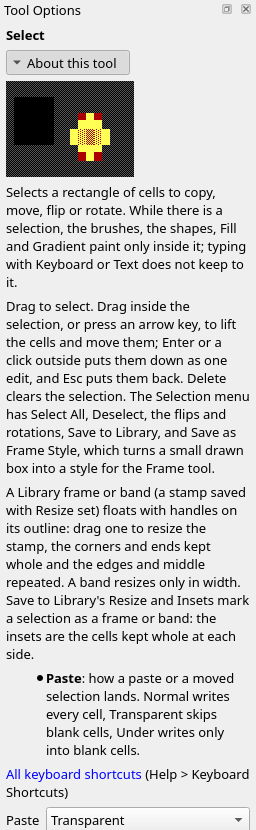
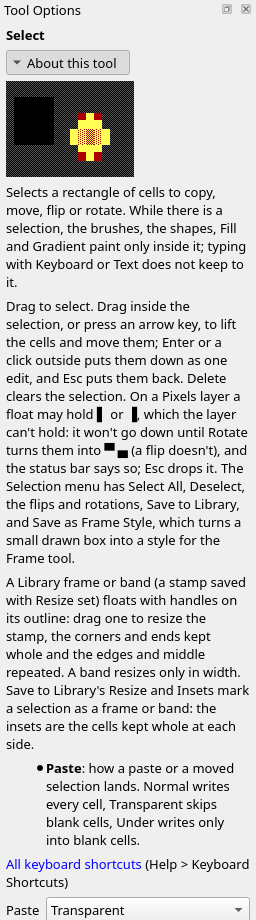
Tutorials 01-03 and 08: re-checked against 6cb21c1 (#58)
Re-checks tutorials 01, 02, 03 and 08 against Blockwright `6cb21c1`. Tutorial 01 gets two window pictures, the Palette and the Preview (1x) dock. It now says the pen is kept between runs and quotes the € status message as the app shows it. Tutorial 08's Paste setting picture is recropped for the Select tool's new help paragraph. Its Save to Library paragraph now says Save to Library takes what the visible layers show (#434), so the reader hides Background before saving the pine and shows it again after. Tutorials 02 and 03 have no drift. Each page's `Checked:` line and its `PLAN.md` §2 row now name `6cb21c1`.

Changed region(s): [[0.0, 0.0, 0.9688, 1.0], [0.9375, 0.0, 0.9688, 0.0301], [0.875, 0.0, 0.9062, 0.0301]]

diff --git a/samples/01-what-ansi-art-is/make.py b/samples/01-what-ansi-art-is/make.py
@@ -4,9 +4,18 @@
 The step files are the canvas each step of "Do it" leaves (typing in keyboard
 mode puts the glyph in the pen's colours and moves the cursor one cell right).
 final.ans is funkpower's 0xCAFE, copied from the ascii library, not made here.
+
+The pictures of the editor's docks come from the same words typed as a steps
+file (do-it.steps.json), one keyboard step a word, played in the window by
+`blockwright --screenshot` (the editor is $BLOCKWRIGHT, else blockwright).
 """
 
+import json
+import os
+import shutil
+import subprocess
 import sys
+import tempfile
 from pathlib import Path
 
 HERE = Path(__file__).resolve().parent
@@ -87,3 +96,42 @@ c.text(2, 3, "♥", LIGHT_RED, BLACK)
 c.text(4, 3, "hot coffee", GREY, BLACK)
 c.text(15, 3, "♥", LIGHT_RED, BLACK)
 save(c, "try.ans", "Open 24/7")
+
+
+
+# The docks: the words of "Do it" typed as keyboard steps, and the window
+# pictured at the last two. The pen of each step holds for the steps after
+# it; the last space of step 4 is a step of its own, so the Palette is
+# pictured with the pen white on blue and the Preview with the words whole.
+GUI = os.environ.get("BLOCKWRIGHT") or "blockwright"
+
+
+def key(name, at, text, **pen):
+    return dict({"name": name, "action": "keyboard", "at": at, "text": text}, **pen)
+
+
+steps = [
+    key("hello", [1, 1], "HELLO", fg=GREY, bg=BLACK),
+    key("ansi", [1, 3], "ANSI", fg=YELLOW),
+    key("art", [1, 5], " ART", fg=WHITE, bg=BLUE),
+    key("space", [5, 5], " "),
+]
+SHOTS = {
+    # Step 4: the pen white on blue.
+    "art": ("pen.png", {"of": "palette"}),
+    # Step 6: the canvas at 1x.
+    "space": ("preview.png", {"of": "preview", "crop": {"pixels": [0, 0, 307, 170]}}),
+}
+number = {}
+for i, step in enumerate(steps):
+    number[step["name"]] = i + 1
+    if step["name"] in SHOTS:
+        step["screenshot"] = SHOTS[step["name"]][1]
+# The taller window gives the Preview dock room for the whole canvas.
+body = {"version": 1, "start": {"blank": [32, 8]}, "steps": steps, "window": [1280, 1300]}
+path = HERE / "do-it.steps.json"
+path.write_text(json.dumps(body, indent=1, ensure_ascii=False) + "\n", encoding="utf-8")
+with tempfile.TemporaryDirectory() as tmp:
+    subprocess.run([GUI, "--screenshot", str(path), "-o", tmp], check=True, stdout=subprocess.DEVNULL)
+    for name, (dest, _) in SHOTS.items():
+        shutil.copyfile(Path(tmp) / f"{number[name]:02d}-{name}.png", HERE / dest)

diff --git a/samples/08-composing-a-scene/make.py b/samples/08-composing-a-scene/make.py
@@ -172,7 +172,7 @@ PASTE = {"name": "paste-pine", "action": "paste", "at": [34, 8]}
 STAMP_COPY = {"name": "stamp-copy", "action": "deselect"}
 
 PINE = [PARTS_ACTIVE, SELECT_PINE, MOVE_PINE, FLIP, STAMP_PINE]
-steps = PINE + SNAG + RIDGE + [UNDER, STAMP_RIDGE] + [shot(COPY[0], "toolOptions", pixels=[0, 0, 256, 830]), COPY[1], PASTE, STAMP_COPY]
+steps = PINE + SNAG + RIDGE + [UNDER, STAMP_RIDGE] + [shot(COPY[0], "toolOptions", pixels=[0, 0, 256, 920]), COPY[1], PASTE, STAMP_COPY]
 replay("final", "start.bwp", steps,
        {"move-pine": "step-01.bwp", "flip-pine": "step-02.bwp", "rotate-snag": "step-03.bwp",
         "move-log": "step-04.bwp", "cut-ridge": "step-05.bwp", "paste-ridge": "step-06.bwp",

diff --git a/PLAN.md b/PLAN.md
@@ -38,14 +38,14 @@ Status is against Blockwright's `main` on 2026-11-05 (`06fbac5`). Issue and PR n
 
 | # | Tutorial | Covers | Status |
 |---|---|---|---|
-| 01 | What ANSI art is | Cells, CP437 glyphs, 16 colours, foreground and background, 80 columns, reading a piece at 1× | Written, checked against `c44974c` |
-| 02 | Your first piece | Keyboard mode, F-key glyph sets (Ctrl+, Ctrl+. Ctrl+/), the pen (Ctrl+arrows, Ctrl+D), undo, Save, the SAUCE dialog | Written, checked against `ebd3feb`; the default set (#307) and sets 17–21 corrected from `9cad05f`; the pen kept between runs (#307) added from `ebd3feb`, so step 2 starts with Ctrl+D; window pictures in from `ebd3feb`: the Glyphs dock, the Palette with the pen black on white and the Preview (1x) dock with the finished card, from `--screenshot` of the card typed as keyboard steps (`do-it.steps.json`, which `replay` takes to `final.ans` cell for cell), the step pictures still drawn by `scripts/ansi.py`; the start screen, the SAUCE dialog and Save As are described, not pictured (`--screenshot` opens no dialog), and so are sets 1 and 7 in the status bar and the Glyphs dock (no step key changes the F-key set) and the cursor's position (no step moves the cell cursor) |
-| 03 | Pixels with half blocks | Why ▀▄█ make two pixels a cell; half-block brush, 4- vs 8-connected pencil, line, rectangle, ellipse, Filled Shapes, fill, eyedropper; iCE colours and bright backgrounds | Written, checked against `ebd3feb`; the cursor's position corrected at `ebd3feb`: it is at the status bar's right end, after the F-key set, the target and the encoding and before the size, the cell width and the zoom, not at its start; window pictures in from `ebd3feb`: that end of the status bar, the Rectangle's Tool Options with Filled ticked, the Palette after the Eyedropper and the Half-Block Brush's Tool Options with Pencil 4-connected ticked, from `--screenshot` of the scene as a steps file (`scene.steps.json`, which `replay` takes to `final.ans` cell for cell), the step pictures still drawn by `scripts/ansi.py`; the start screen is described, not pictured (`--screenshot` opens no dialog), and so is View > iCE Colours (no step toggles it; `no-ice.ans` shows the canvas with it off) |
+| 01 | What ANSI art is | Cells, CP437 glyphs, 16 colours, foreground and background, 80 columns, reading a piece at 1× | Written, checked against `6cb21c1`; the pen kept between runs (#307) added, so step 2 says to press Ctrl+D if it isn't grey on black, and the € message corrected to the status bar's *€ has no CP437 code; not typed (target: ANSI, CP437)*; window pictures in from `6cb21c1`: the Palette with the pen white on blue and the Preview (1x) dock with the finished canvas, from `--screenshot` of the words typed as keyboard steps (`do-it.steps.json`, which `replay` takes to `step-04.ans` cell for cell), the step pictures still drawn by `scripts/ansi.py`; the start screen is described, not pictured (`--screenshot` opens no dialog), and so is the cursor's position in the status bar (no step moves the cell cursor, and step 5 needs it at `1, 1`) |
+| 02 | Your first piece | Keyboard mode, F-key glyph sets (Ctrl+, Ctrl+. Ctrl+/), the pen (Ctrl+arrows, Ctrl+D), undo, Save, the SAUCE dialog | Written, checked against `6cb21c1` (#468's status tips and label buddies change no picture; every sample re-run byte for byte); the default set (#307) and sets 17–21 corrected from `9cad05f`; the pen kept between runs (#307) added from `ebd3feb`, so step 2 starts with Ctrl+D; window pictures in from `ebd3feb`: the Glyphs dock, the Palette with the pen black on white and the Preview (1x) dock with the finished card, from `--screenshot` of the card typed as keyboard steps (`do-it.steps.json`, which `replay` takes to `final.ans` cell for cell), the step pictures still drawn by `scripts/ansi.py`; the start screen, the SAUCE dialog and Save As are described, not pictured (`--screenshot` opens no dialog), and so are sets 1 and 7 in the status bar and the Glyphs dock (no step key changes the F-key set) and the cursor's position (no step moves the cell cursor) |
+| 03 | Pixels with half blocks | Why ▀▄█ make two pixels a cell; half-block brush, 4- vs 8-connected pencil, line, rectangle, ellipse, Filled Shapes, fill, eyedropper; iCE colours and bright backgrounds | Written, checked against `6cb21c1` (#468's status tips and label buddies change no picture; every sample re-run byte for byte); the cursor's position corrected at `ebd3feb`: it is at the status bar's right end, after the F-key set, the target and the encoding and before the size, the cell width and the zoom, not at its start; window pictures in from `ebd3feb`: that end of the status bar, the Rectangle's Tool Options with Filled ticked, the Palette after the Eyedropper and the Half-Block Brush's Tool Options with Pencil 4-connected ticked, from `--screenshot` of the scene as a steps file (`scene.steps.json`, which `replay` takes to `final.ans` cell for cell), the step pictures still drawn by `scripts/ansi.py`; the start screen is described, not pictured (`--screenshot` opens no dialog), and so is View > iCE Colours (no step toggles it; `no-ice.ans` shows the canvas with it off) |
 | 04 | Shading: the ladder | ░▒▓ as rungs between two colours, the ten shipped ramps, the shade brush, the ramp shade brush, strength, pressure, alpha lock | Written, checked against `6cb21c1`: step pictures from `replay` steps files, dock pictures from `--screenshot` (Tool Options set as the step it is taken at), final piece and Try-it file `.bwp` from `replay --project`; pressure is described, not pictured (§4); dock pictures redrawn in the bundled font from `b4b9c49`, every picture, its crop and its alt text checked against it, and every `.ans` and `.bwp` reproduced byte for byte; re-checked in full against `6cb21c1`: no drift, every `.ans`, `.bwp` and PNG reproduced byte for byte by `make.py`, every menu path and shortcut matching `--list-actions`; pressure still described, not pictured, though `replay` takes a `pressure` option from `2edd1df` (#390) |
 | 05 | Shading: forms and falloff | Form shading (dome, cylinder, plane), soft falloff, ramp gradient tool, blend/smudge, despeckle | Written, checked against `6cb21c1`: step pictures from `replay` steps files, dock pictures from `--screenshot` (Tool Options set as the step it is taken at), final piece and Try-it file `.bwp` from `replay --project`; 4×4 Bayer banding is described, not pictured; dock pictures redrawn in the bundled font from `b4b9c49`, every picture, its crop and its alt text checked against it, and every `.ans` and `.bwp` reproduced byte for byte; re-checked in full against `6cb21c1`: no drift, every `.ans`, `.bwp` and PNG reproduced byte for byte by `make.py`, every menu path and shortcut matching `--list-actions` |
 | 06 | Light | Choosing a light direction, the rim light brush (Ctrl+Shift+L) and its eight compass points, form shading's light, highlights and glints; where the rim light can't help (counters, thin bars, canvas edges) | Written, checked against `6cb21c1`: step pictures from `replay` steps files, dock pictures from `--screenshot` (Tool Options set as the step it is taken at), final piece and Try-it file `.bwp` from `replay --project`; dock pictures redrawn in the bundled font from `b4b9c49`, every picture, its crop and its alt text checked against it, and every `.ans` and `.bwp` reproduced byte for byte; re-checked in full against `6cb21c1`: no drift, every `.ans`, `.bwp` and PNG reproduced byte for byte by `make.py`, every menu path and shortcut matching `--list-actions` |
 | 07 | Detail | Outline brush, texture stamps, glyph spray, clone stamp, symmetry: mirror X/Y, both, radial 2–8 | Written, checked against `6cb21c1`: step pictures from `replay` steps files, dock pictures from `--screenshot` (Tool Options set as the step it is taken at), final piece and Try-it file `.bwp` from `replay --project`; the clone stamp is described, not pictured (at `fd10778` `replay` had no clone action; from `210734b` it has one, pictured in the CLI page's [The clone stamp](manual/14-cli.md#the-clone-stamp), which this page now links); dock pictures redrawn in the bundled font from `b4b9c49`, every picture, its crop and its alt text checked against it, and every `.ans` and `.bwp` reproduced byte for byte; re-checked in full against `6cb21c1`: no drift, every `.ans`, `.bwp` and PNG reproduced byte for byte by `make.py`, every menu path and shortcut matching `--list-actions` |
-| 08 | Composing a scene | Selections, move, flip, rotate, paste modes (normal, transparent, under), guides, reference image, Library stamps, Scene Starter | Written, checked against `bb1c676`: step pictures, the mistakes and Try-it file `.bwp` from `replay --project` steps files (select, `moveSelection`, flip, rotate, cut, copy and paste in Under and Transparent mode, on a Cells layer of parts over the Background layer), the marquee from `--screenshot` with a `view` step (played by `--screenshot` only, since `replay` refuses it), the Paste setting and the Library dock from `--screenshot` (the Library with an empty user library, so bundled stamps only; the Library picture retaken from `27ab7fe`, where #430's fix shows every name whole, so the cut-off-labels gap is closed); guides, the reference image, placing a Library stamp and Save to Library are described, not pictured (`replay` has no action for View > Guides, Open Reference Image, placing a stamp or saving one, and `--screenshot` plays the same steps); Normal's difference from Transparent, painted spaces on black, is described, not pictured (on a layer of parts drawn from transparent cells the two land alike; Normal against Under is pictured); the Scene Starter isn't on `main`, and the page says so in one line |
+| 08 | Composing a scene | Selections, move, flip, rotate, paste modes (normal, transparent, under), guides, reference image, Library stamps, Scene Starter | Written, checked against `6cb21c1`: step pictures, the mistakes and Try-it file `.bwp` from `replay --project` steps files (select, `moveSelection`, flip, rotate, cut, copy and paste in Under and Transparent mode, on a Cells layer of parts over the Background layer), the marquee from `--screenshot` with a `view` step (played by `--screenshot` only, since `replay` refuses it), the Paste setting and the Library dock from `--screenshot` (the Library with an empty user library, so bundled stamps only; the Library picture retaken from `27ab7fe`, where #430's fix shows every name whole, so the cut-off-labels gap is closed); guides, the reference image, placing a Library stamp and Save to Library are described, not pictured (`replay` has no action for View > Guides, Open Reference Image, placing a stamp or saving one, and `--screenshot` plays the same steps); Normal's difference from Transparent, painted spaces on black, is described, not pictured (on a layer of parts drawn from transparent cells the two land alike; Normal against Under is pictured); the Scene Starter isn't on `main`, and the page says so in one line; from `6cb21c1`: the Paste setting picture recropped 90 px taller for the Select tool's help paragraph on floats (`f9ec75e`), every other sample byte for byte the same, and Save to Library corrected: it takes what the visible layers show, not the active layer (`03af132`, #434), so the page says to hide **Background** before saving the pine and to show it again after |
 | 09 | Layers and projects | Layer kinds (cells, pixels, text, generator, reference), compositing, the project file, snapshots | Written, checked against `4b72bcc`: step pictures and Try-it file `.bwp` from `replay --project` steps files, dock pictures from `--screenshot`, snapshots from `blockwright-cli snapshot` (the same snapshot as **File > Take Snapshot**, which `replay` has no action for), the flat copy from `convert`; Text, Generator and Reference layers and the layer modes are described, not pictured (Text layers are 10's, generators 12's, the reference image 08's; the app has no control for the mode); dock pictures redrawn in the bundled font from `b4b9c49`, every picture, its crop and its alt text checked against it, and every `.ans` and `.bwp` reproduced byte for byte; the rest of the page not re-checked |
 | 10 | Letters and text | Lettering by hand, letters that misread at 1× (C/G, R/A, 0/D), TDF text layers | Written, checked against `6cb21c1`: step pictures, the misreads and Try-it file `.bwp` from `replay --project` steps files (letters drawn with the half-block brush on a Pixels layer, rows recoloured with the rectangle under alpha lock), dock pictures from `--screenshot`; the Text tool, the face picker, the fonts folder, Bake Layer and Text layers are described, not pictured (at `fd10778` `replay` had no text action, no CLI command made a Text layer, and Blockwright ships no TheDraw font; from `fbac0e1` a `replay` `text` step makes one in a bundled face, pictured in the CLI page's [The text tool](manual/14-cli.md#the-text-tool), which this page now links; from `5b43f7e` (#455) that line says the step takes a TheDraw font from a `.tdf` file the steps file names too, and links the CLI page's [A TheDraw font](manual/14-cli.md#a-thedraw-font)); dock pictures redrawn in the bundled font from `b4b9c49`, every picture, its crop and its alt text checked against it, and every `.ans` and `.bwp` reproduced byte for byte; re-checked in full against `6cb21c1`: no drift, every `.ans`, `.bwp` and PNG reproduced byte for byte by `make.py`, every menu path and shortcut matching `--list-actions`; Bake Layer's line still right after `f0a75cf` (#438) let it bake Generator layers too |
 | 11 | Made for IRC | The 407-byte line budget, trailing black and blank rows, glyphs CP437 can't hold, `export --irc`, the row meter, IRC view, lint panel, publish | Written, checked against `e5db865`: the sign, its fix and the Try-it file `.bwp` from `replay --project` steps files on IRC-target projects (`pack --target irc`), meter, IRC View and Lint pictures from `--screenshot`, full-width IRC views from `render --irc`, byte counts and lint output from `export --irc` and `lint`; Fit and Pad are shown through `export --irc --fit`/`--pad` and `render --irc --fit`, and Fit in the window too from `9cad05f` (`meter-fit.png`, a `view` step, #398, played by `--screenshot` only, since `replay` refuses it), and Publish to Library and the export dialogs are described, not pictured; dock pictures redrawn in the bundled font from `b4b9c49`, every picture, its crop and its alt text checked against it, and every `.ans` and `.bwp` reproduced byte for byte; the rest of the page not re-checked |

diff --git a/tutorials/01-what-ansi-art-is.md b/tutorials/01-what-ansi-art-is.md
@@ -1,5 +1,5 @@
 Title: What ANSI art is
-Checked: Blockwright 0.1.0 (c44974c)
+Checked: Blockwright 0.1.0 (6cb21c1)
 
 # What ANSI art is
 
@@ -49,7 +49,7 @@ You'll make a small canvas and type on it, then look at it at its real size.
 
 1. **Start Blockwright.** It opens on the start screen. Under **New**, set **Width** to 32 and **Height** to 8 (the buttons under them set the usual sizes, 80 × 25, 80 × 40 and 80 × 50), leave **iCE colours** ticked, and press **New** (or <kbd>Enter</kbd>). The canvas is 32 blank cells by 8: spaces, grey on black.
 
-2. **Type a word.** Blockwright starts in keyboard mode (**Tools > Keyboard**, <kbd>Ctrl</kbd>+<kbd>K</kbd>), which types like a text editor. Click the cell one in from the top-left corner to put the cursor there, and type `HELLO`. Each key puts a glyph in a cell, in the foreground and background colours you're drawing with (grey on black to start), and moves the cursor one cell right.
+2. **Type a word.** Blockwright starts in keyboard mode (**Tools > Keyboard**, <kbd>Ctrl</kbd>+<kbd>K</kbd>), which types like a text editor. Click the cell one in from the top-left corner to put the cursor there, and type `HELLO`. Each key puts a glyph in a cell, in the foreground and background colours you're drawing with, and moves the cursor one cell right. The pen is grey on black the first time Blockwright runs; after that it starts with the colours you last drew with, so if it isn't grey on black, press <kbd>Ctrl</kbd>+<kbd>D</kbd> (**Colours > Default Colours**) before you type.
 
     ![HELLO in grey near the top-left of a black canvas](../samples/01-what-ansi-art-is/step-02.ans "2x")
 
@@ -61,11 +61,17 @@ You'll make a small canvas and type on it, then look at it at its real size.
 
     ![ART in white on a blue bar, a space either side](../samples/01-what-ansi-art-is/step-04.ans "2x")
 
+    The Palette now shows the pen: the big square at its left is the foreground over the background, and the swatches mark them F and B.
+
+    ![The Palette dock with the pen white on blue: the white foreground square over the blue background square, beside the sixteen swatches in two rows of eight, F marking white and B marking blue](../samples/01-what-ansi-art-is/pen.png)
+
     <kbd>Ctrl</kbd>+<kbd>D</kbd> (**Colours > Default Colours**) puts the pen back to grey on black.
 
 5. **Find a cell.** Click any cell. The status bar at the bottom shows where the cursor is: its column and row, counted from 0 at the top-left, then the canvas size, the cell width in pixels and the zoom. The H you typed first is at `1, 1`.
 
 6. **Look at it at 1×.** The canvas is zoomed so you can draw (**View > Zoom In** and **Zoom Out**, <kbd>Ctrl</kbd>+<kbd>=</kbd> and <kbd>Ctrl</kbd>+<kbd>-</kbd>). The **Preview (1x)** dock on the right shows the piece at its real size, the way most people will see it.
+
+    ![The Preview (1x) dock with the canvas at its real size: HELLO in grey, ANSI in yellow and ART in white on a blue bar, on black](../samples/01-what-ansi-art-is/preview.png)
 
 ## Check it
 
@@ -75,7 +81,7 @@ You'll make a small canvas and type on it, then look at it at its real size.
 
 The same goes for letters in a lettered piece: read every word at 1× and check that no letter could be taken for another (C and G, 0 and D, 5 and S).
 
-**A glyph that isn't in CP437 isn't typed.** Type `€` and the status bar says *€ has no CP437 glyph; not typed*, and the canvas doesn't change.
+**A glyph that isn't in CP437 isn't typed.** Type `€` and the status bar says *€ has no CP437 code; not typed (target: ANSI, CP437)*, and the canvas doesn't change.
 
 ## Try it
 

diff --git a/tutorials/08-composing-a-scene.md b/tutorials/08-composing-a-scene.md
@@ -1,5 +1,5 @@
 Title: Composing a scene
-Checked: Blockwright 0.1.0 (bb1c676)
+Checked: Blockwright 0.1.0 (6cb21c1)
 
 # Composing a scene
 
@@ -119,7 +119,7 @@ The **Library** dock (**Window > Library**) holds stamps: parts kept as files, t
 
 Double-click a stamp, or press <kbd>Enter</kbd> on it, and it floats at the cell cursor; drag one onto the canvas and it floats where you drop it. Either way the **Select** tool is now in hand and the stamp is a float like a paste. It lands in **Transparent** mode whatever **Paste** says, unless you change **Paste** while it floats. Move, flip or turn it, and press <kbd>Enter</kbd>.
 
-To keep a part of your own, select it and choose **Selection > Save to Library...**: give it a name, a category and tags. The name has to be one CP437 can write, and a name already in the library asks before it replaces it. The pine in step 2 would make one.
+To keep a part of your own, select it and choose **Selection > Save to Library...**: give it a name, a category and tags. The name has to be one CP437 can write, and a name already in the library asks before it replaces it. The pine in step 2 would make one, but hide **Background** first (clear its box in the **Layers** dock): unlike Copy, which takes the active layer, Save to Library takes what the visible layers show, and with the sky showing the stamp would carry the stars at `58, 5` and `57, 11`. Tick its box again once the stamp is saved: a hidden layer stays out of the window and out of every export.
 
 The **Scene Starter**, a scene laid out from the Library in one go, isn't in the app yet.
 

diff --git a/tutorials/03-pixels-with-half-blocks.md b/tutorials/03-pixels-with-half-blocks.md
@@ -1,5 +1,5 @@
 Title: Pixels with half blocks
-Checked: Blockwright 0.1.0 (ebd3feb)
+Checked: Blockwright 0.1.0 (6cb21c1)
 
 # Pixels with half blocks
 

diff --git a/tutorials/02-your-first-piece.md b/tutorials/02-your-first-piece.md
@@ -1,5 +1,5 @@
 Title: Your first piece
-Checked: Blockwright 0.1.0 (ebd3feb)
+Checked: Blockwright 0.1.0 (6cb21c1)
 
 # Your first piece
 
